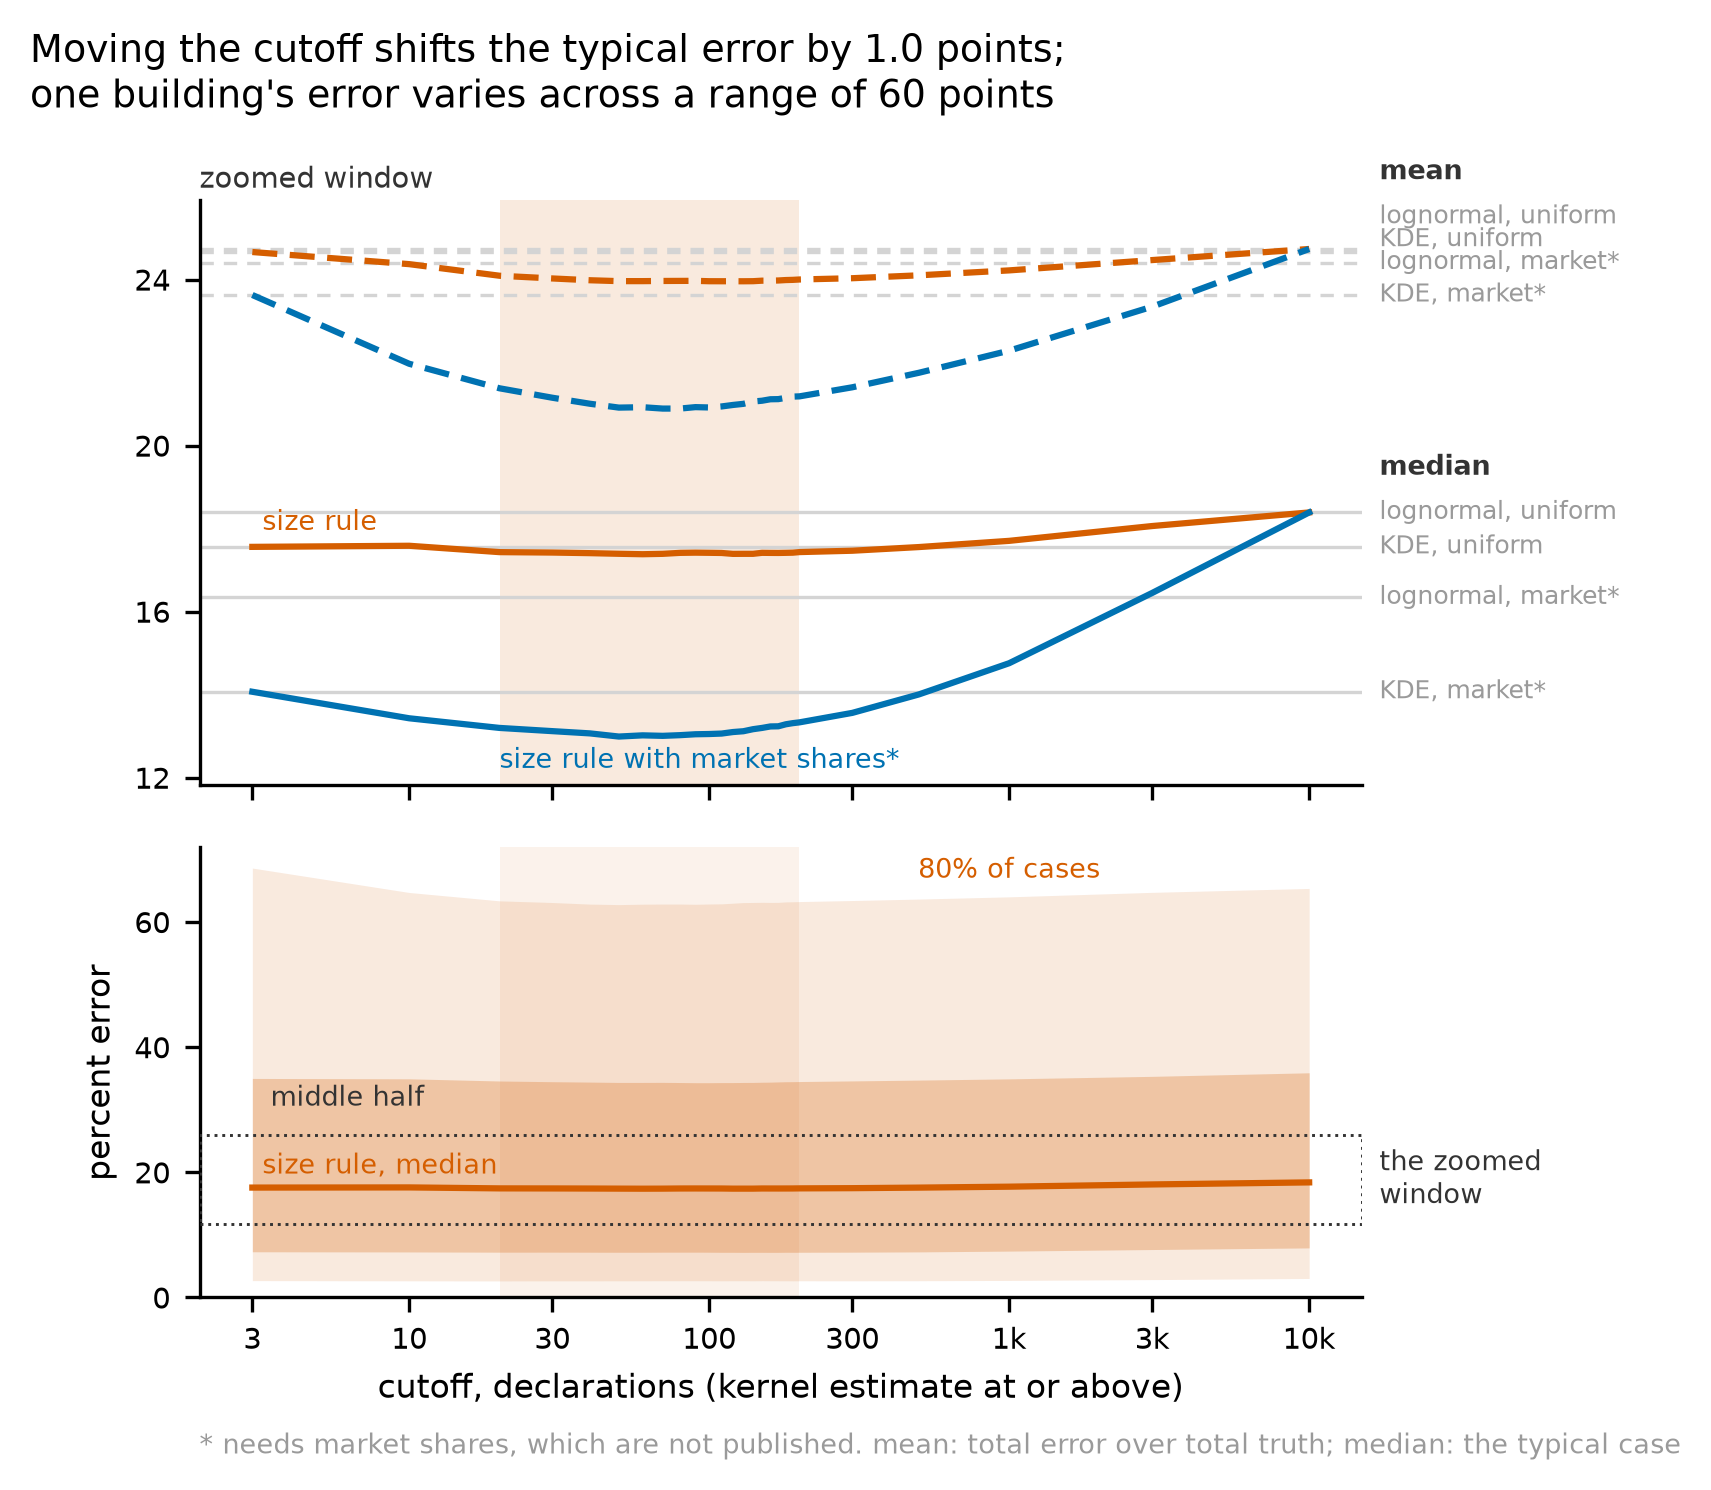
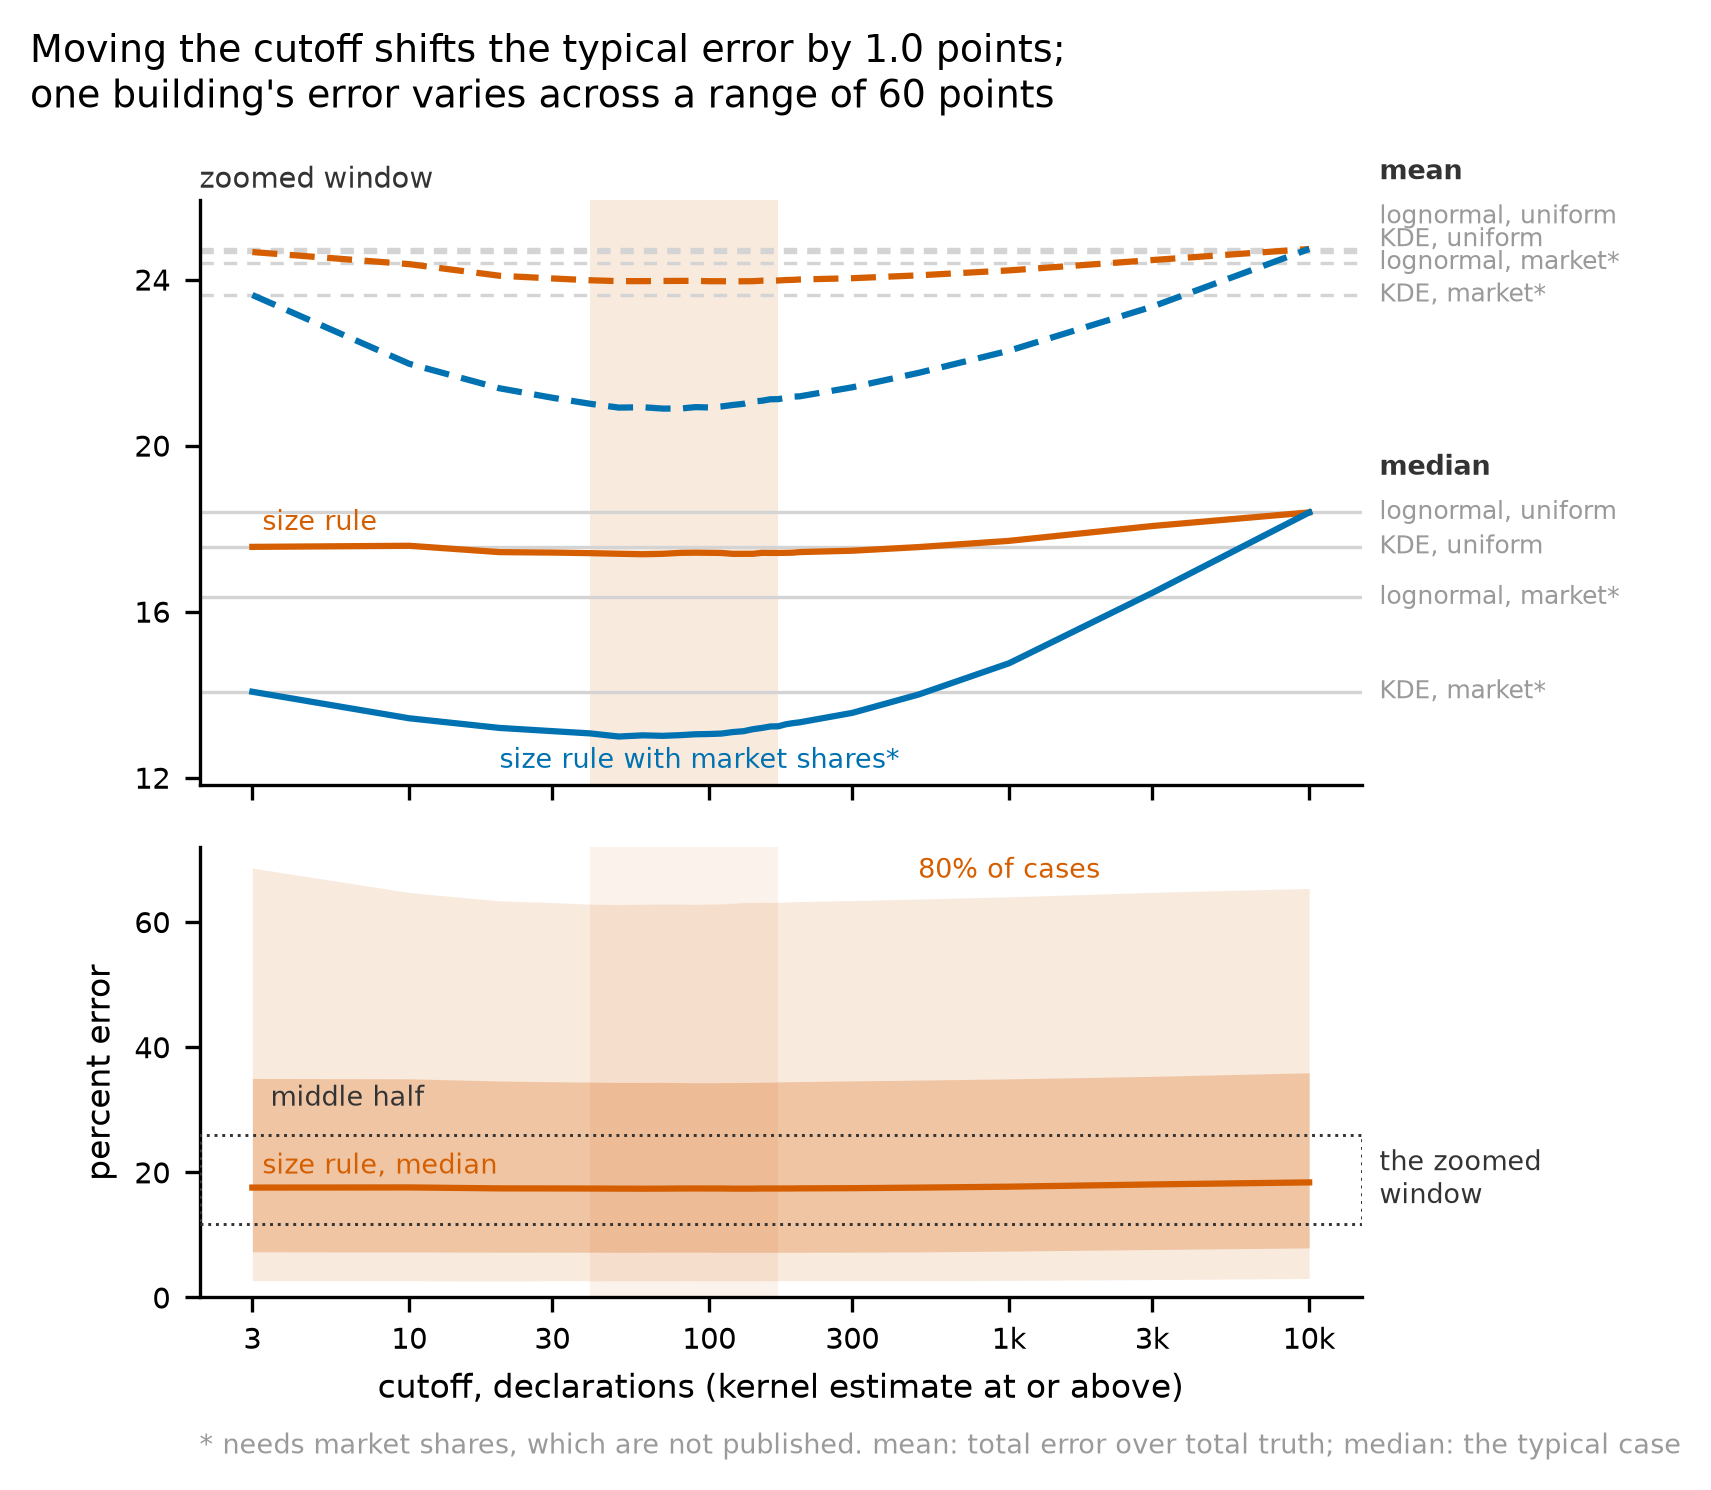
Narrative review findings 3, 6, 8, 9: band, precision, fit-versus-claim, coverage
Figure 4 shades the published band, 40 to 170 (the cutoffs indistinguishable
under both statistics). Pooled errors to one decimal; the rule's margin is
0.2 points [0.03, 0.35]. Takeaway 11 now quotes TABLE_FitVersusClaim.csv from
a new table cell in notebook 3 (+0.66, 85.3 pct, 41.6 pct); the old values had
no producer. Discussion item 6 restated without the false floor. Coverage
statement moved to the text beside Figure 2. Nine re-sliced tables verified
byte-identical; no other number moves.

Changed region(s): [[0.2788, 0.1235, 0.3717, 0.5248], [0.4337, 0.1235, 0.4646, 0.5248]]

diff --git a/reports/MANUSCRIPT_NARRATIVE.md b/reports/MANUSCRIPT_NARRATIVE.md
@@ -105,23 +105,24 @@ Uniform weights throughout, a kernel estimate at or above the cutoff, a
 three-parameter lognormal below. **The cutoff is 40 to 170 declarations**, every
 value in that band indistinguishable from the best on the ratio of means
 (decision 224). **Re-tested on the median of ratios it holds and widens**: 20 to
-300 indistinguishable, best at 60, and both ends -- a kernel estimate everywhere
-and a lognormal everywhere -- remain distinguishably worse (300 resamples; the
-6,000-resample table is `TABLE_MixedPolicyThresholdBothStats.csv`). So 40 to 170
-is the range that survives BOTH statistics and is the one to print. The rule is
-closest of the four options a reader can choose on **7 of 15** claims -- the
-kernel estimate on 5, the lognormal on 3 -- and pooled it is the lowest of the
-four, **17.38 against 17.54** for a kernel estimate everywhere and 17.23 for
-knowing in advance which fixed method wins each claim.
+200 indistinguishable, best at 60, and both ends -- a kernel estimate everywhere
+and a lognormal everywhere -- remain distinguishably worse (6,000 resamples,
+`TABLE_MixedPolicyThresholdBothStats.csv`). So 40 to 170 is the range that
+survives BOTH statistics and is the one to print. The rule is closest of the
+four options a reader can choose on **7 of 15** claims -- the kernel estimate on
+5, the lognormal on 3 -- and pooled it is the lowest of the four: **17.4**
+against 17.5 for a kernel estimate everywhere, 18.4 for a lognormal everywhere
+and 26.5 for a normal.
 
-**The honest size of it: under the typical-case statistic the rule is worth
-0.16 points over a kernel estimate everywhere.** It is the best available
-choice and not by much. That is a result to state, not to hide, and it is what
-makes takeaway 4 the paper's main practical lever.
+**The honest size of it: under the typical-case statistic a kernel estimate
+everywhere is 0.2 points worse than the rule at its best cutoff, 95 percent
+interval 0.03 to 0.35.** Measured and clear of zero, but small. The rule is the
+best available choice and not by much. That is a result to state, not to hide,
+and it is what makes takeaway 4 the paper's main practical lever.
 
-**So what:** count the EPDs you have. Above about a hundred use a kernel density
-estimate, below about fifty fit a three-parameter lognormal, in between it does
-not matter which.
+**So what:** count the EPDs you have. Below about 40 fit a three-parameter
+lognormal, above about 170 use a kernel density estimate, and in between either
+does as well.
 
 Decisions 204, 216, 217, 220, 224, 225. **No single-declaration cutoff is
 printed anywhere in the paper.**
@@ -129,10 +130,10 @@ printed anywhere in the paper.**
 ### 4. Knowing market shares is worth many times what the rule is worth
 
 Giving the same rule the true market shares above the cutoff takes the pooled
-typical-case error from **17.42 to 13.02 percent**: **4.40 points, or 25.3
-percent of what was there**. The rule itself is worth 0.14 points over the best
-uniform-weighted fixed method on the same pass. On the average building (ratio
-of means) the same comparison reads 23.97 to 20.89, 3.08 points or 12.8 percent.
+typical-case error from **17.4 to 13.0 percent**: **4.4 points, or a quarter of
+what was there**, against the rule's 0.2 points (takeaway 3). On the average
+building (ratio of means) the same comparison reads 24.0 to 20.9, 3.1 points or
+13 percent.
 
 **So what:** for a typical building a probabilistic LCA is off by about 17
 percent today. Knowing exactly how much of each product is actually built would
@@ -170,7 +171,7 @@ weight on each product group is that group's true share to 1.1e-16.
 ### 6. Do not fit a normal distribution, and say which claim you mean
 
 A normal is **52 percent** worse pooled than the rule on the typical case
-(26.45 against 17.38), and **65 percent** worse than the best available choice
+(26.5 against 17.4), and **65 percent** worse than the best available choice
 on a material's chance of being the largest contributor (42.2 against 25.6). It
 is the worst of the seven policies on 14 of 15 claims and the best of the four a
 reader can choose on none. On the average building the penalty is 36 percent,
@@ -262,10 +263,17 @@ averaged form must never be quoted as "the method is right".
 ### 11. A better fit does give a better answer, and not by as much as the fit suggests
 
 Within a material, ranking the six methods by how well they fit and by how wrong
-their answer is gives a median rank correlation of **+0.83**, positive on **88.2
+their answer is gives a median rank correlation of **+0.66**, positive on **85.3
 percent** of the 10,000 materials; the best-fitting method is also the most
-claim-accurate **42.8 percent** of the time against a 16.7 percent chance level.
-What does not transfer is the magnitude.
+claim-accurate **41.6 percent** of the time against a 16.7 percent chance level.
+It holds in every size band (positive on 80.5 percent at 3 to 9 declarations,
+91.2 above 1,000). What does not transfer is the magnitude.
+
+Fit is W1 against the market-weighted true parent; claim error is the mean, over
+the seven per-material claims, of the per-unit ratio |method - truth| / |truth|
+(decision 253). `TABLE_FitVersusClaim.csv`, written by the last table cell of
+notebook 3. The +0.83, 88.2 and 42.8 this section previously quoted had no
+producing table and do not reproduce (review of 2026-10-07).
 
 **So what:** there is no check you can run on your own data to find out whether
 your choice of method will matter for your building. Follow the rule precisely
@@ -273,8 +281,8 @@ because you cannot tell.
 
 This is the summarizing takeaway and where the draft's retired second
 contribution lands. **It goes last in the Results and feeds the Conclusion.**
-Recomputed on the shipped corpus; decision 166's +0.600, 82.2 and 39.0 are from
-a superseded one.
+Decision 166's +0.600, 82.2 and 39.0 are from a superseded corpus and a
+different claim definition.
 
 ---
 
@@ -328,10 +336,13 @@ data-collection argument, which the measurements support in this order:**
 5. An industry-average EPD would be the one published production-weighted number,
    and the frozen extract contains none -- all 120,280 records are product EPDs
    (decision 176). A concrete ask of the EPD programs.
-6. **More declarations alone has a floor.** A uniform-weighted fit flattens at
-   0.084 against a floor of 0.099, the distance between the population that
-   publishes and the population that gets built. No quantity of EPDs takes it
-   below that floor (decision 219). Only share information does.
+6. **More declarations alone stops helping.** Above 100 declarations a
+   uniform-weighted fit's error against the market-weighted truth levels off
+   near 0.1 (0.097 at 100 to 999, 0.084 above 1,000), about the distance between
+   the population that publishes and the population that gets built (0.099).
+   With market weights the same error keeps falling, from 0.076 to 0.029. More
+   EPDs alone do not close that gap; share information does (decision 219,
+   `outputs/tables/audits/TABLE_BandwidthNeff.csv`).
 
 Plus the remedies the paper names without adopting: upper truncation (decision
 199) and the rule's own limits (decision 205).
@@ -386,9 +397,18 @@ worked example in section 5.
 
 ![](../outputs/figures/CompareUQMethods_FIG_MetricCoverage.png)
 
-- "The 10,000 synthetic datasets span the statistical characteristics of the 147
-  real EC3 categories on every characteristic tested, leaving four uncovered
-  dataset-metric pairs out of 1,470."
+- "The 10,000 synthetic datasets span the real EC3 categories on every
+  characteristic except two extremes: the three largest ready-mix classes exceed
+  the corpus's maximum size, and Aggregates exceeds its maximum dispersion.
+  Across the six panels, 15 of 882 category points fall outside the synthetic
+  cloud."
+
+  **This goes in the manuscript text beside the figure, not in the caption or
+  on the figure** (author, 2026-10-07). The paragraph adds why neither gap
+  matters: above 10,000 declarations the results do not change (decision 137),
+  and Aggregates is a contaminated EC3 category whose removal moves no headline
+  result (decision 138). `TABLE_MetricCoverage.csv`,
+  `TABLE_CoverageFigureStats.csv`.
 - "Generating datasets rather than relying on the categories EC3 happens to hold
   is what lets this study measure accuracy against a known answer, and it is why
   the findings generalize past the 147 categories available."
@@ -713,10 +733,9 @@ is best") and would oversell a fraction of a point.
 ### 3. The cutoff band survives both statistics
 
 Measured, not assumed: 40 to 170 on the ratio of means (reproduced from a fresh
-stream), 20 to 300 on the median of ratios, best cutoff 130 and 60
-respectively. **Recommendation: print 40 to 170**, the range that holds under
-both. Figure 4 is still drawn on the ratio of means and should be redrawn with
-both curves, which is now a figure-cell change and no run.
+stream), 20 to 200 on the median of ratios, best cutoff 130 and 60
+respectively. **Print 40 to 170**, the range that holds under both (author,
+2026-10-07). Figure 4 draws both statistics and shades 40 to 170.
 
 ### 4. Smaller
 
@@ -749,11 +768,11 @@ plots. What is left is below, in order.
 
 ### 1. THE REVIEW HAS RUN
 
-`reports/REVIEW_MANUSCRIPT_NARRATIVE.md`, 2026-10-07. Findings 1, 2, 4, 5, 7,
-10 and most of 11 are applied in this file. Findings 3 (the cutoff band and
-Figure 4's shading), 6 (the pooled-error precision and the per-claim
-benchmark), 8 (takeaway 11's numbers and Discussion item 6's floor) and 9
-(Figure 2's coverage caption) are waiting on author agreement.
+`reports/REVIEW_MANUSCRIPT_NARRATIVE.md`, 2026-10-07. All eleven findings are applied in this
+file, with the author's decisions of 2026-10-07: print 40 to 170 and shade it on
+Figure 4; pooled errors to one decimal; takeaway 11 quoted from a new table;
+the coverage statement in the text beside Figure 2, not in a caption;
+`FIG_Building138` in the main text.
 
 ### 2. THEN THE FIGURE PASS, THEN PROSE
 
